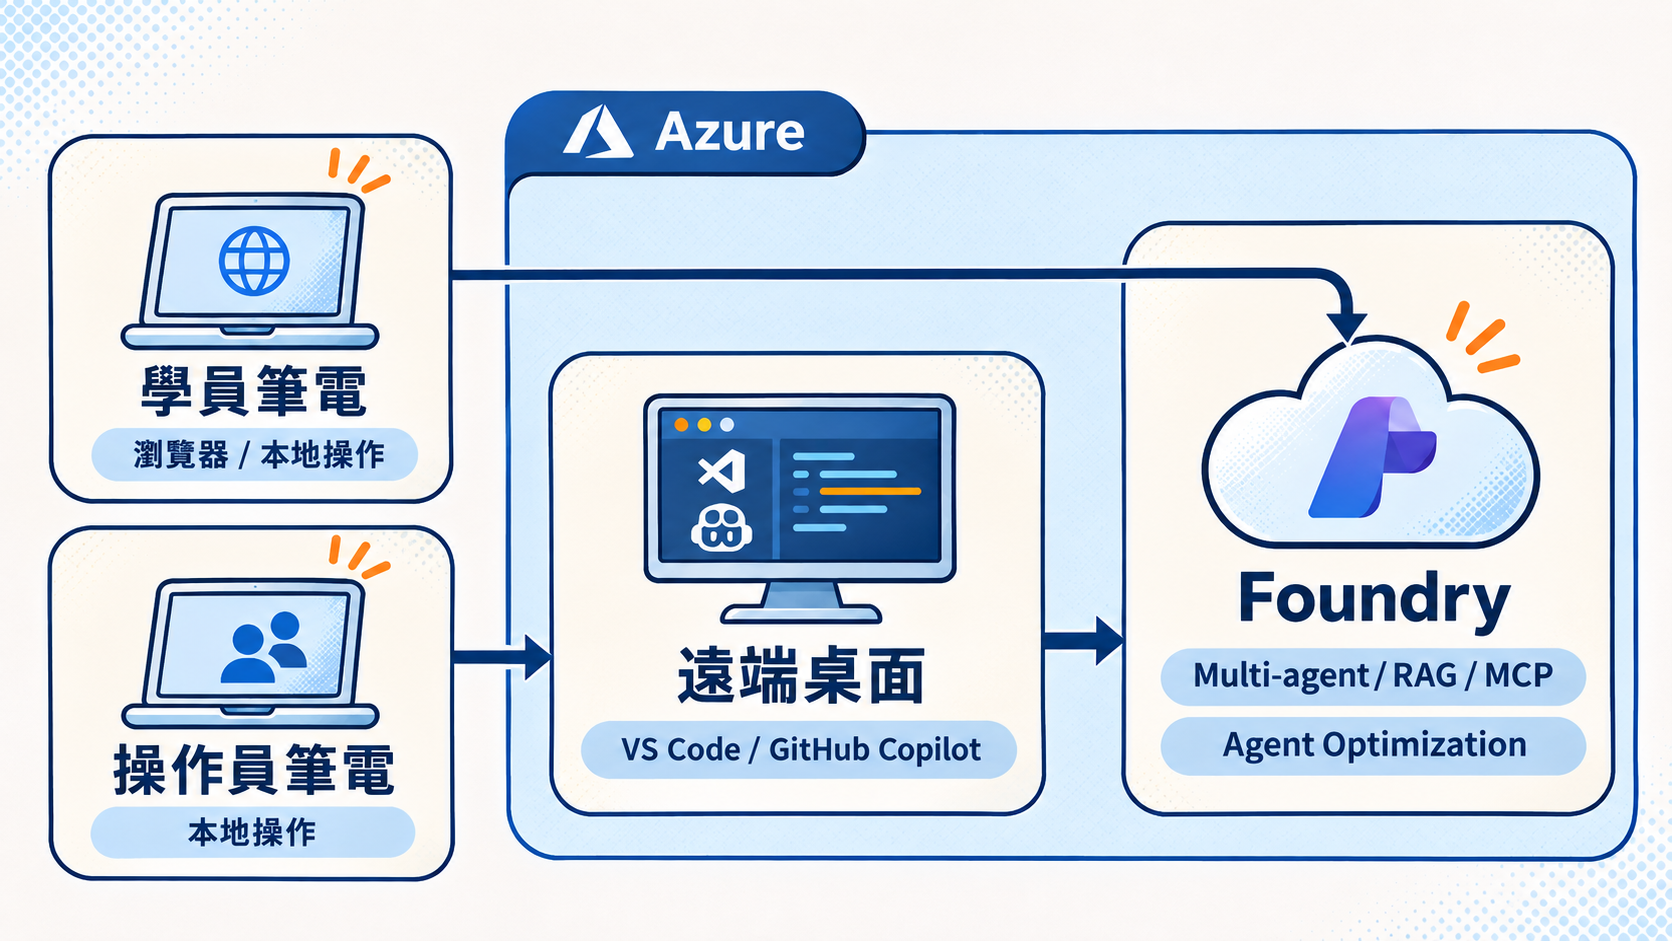
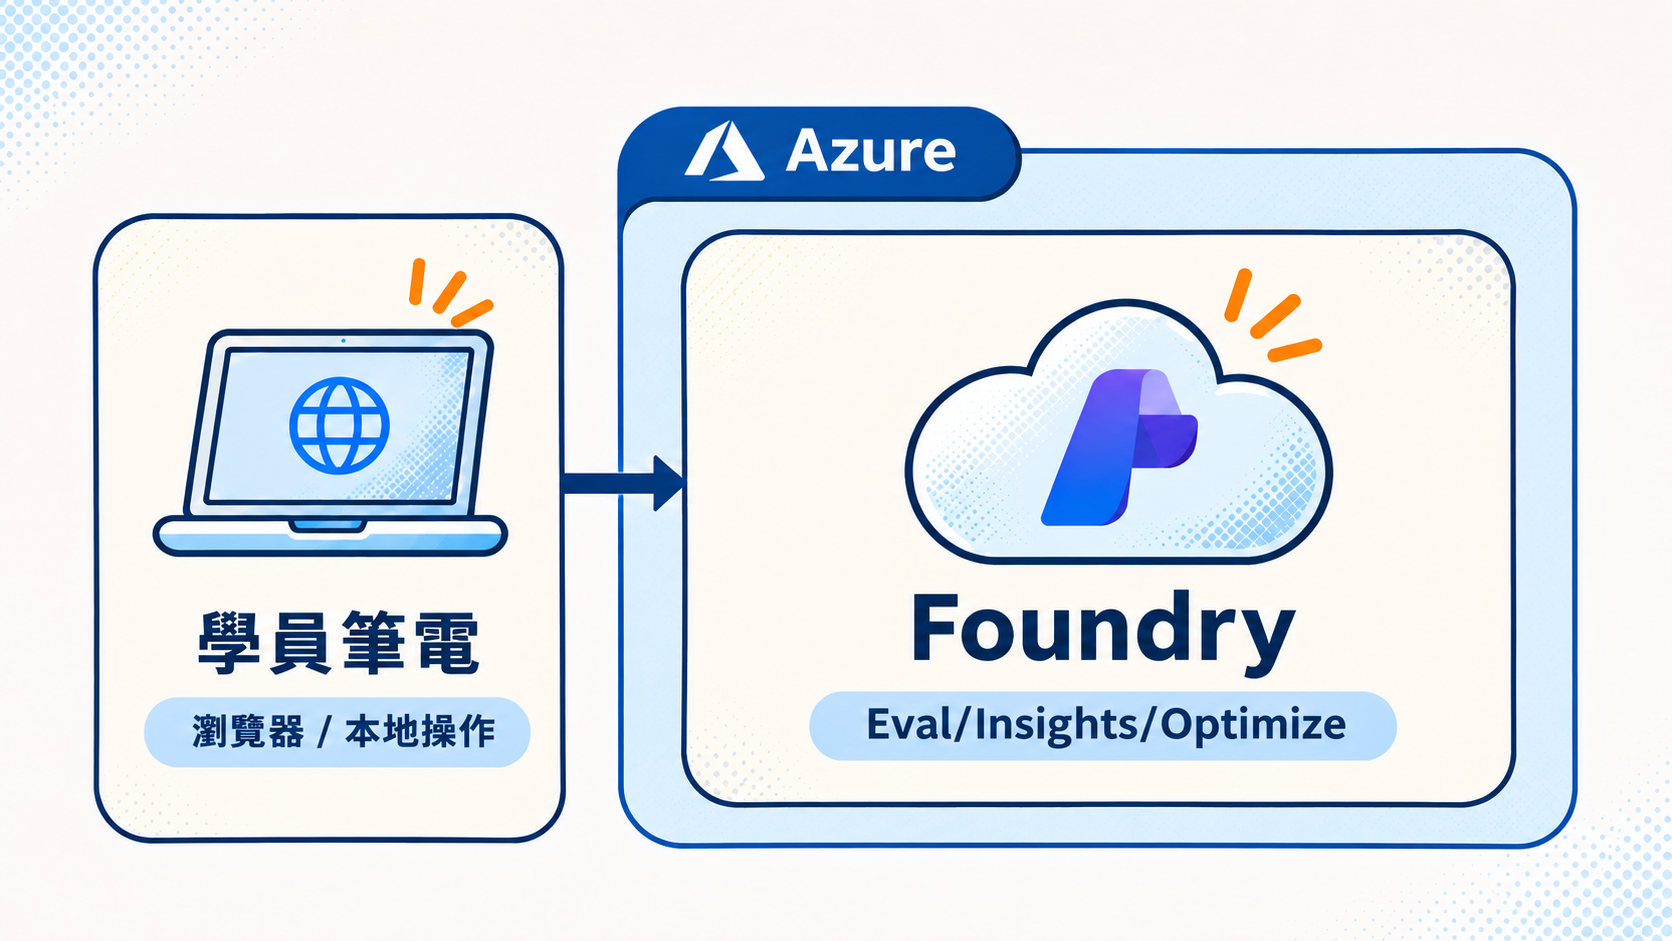
Publish latest preparation updates with MkDocs 1.6.1

diff --git a/getting-started/index.html b/getting-started/index.html
@@ -543,7 +543,7 @@
 <p><span id="readiness"></span></p>
 <h2 id="完成條件">完成條件<a class="headerlink" href="#完成條件" title="Permanent link">¶</a></h2>
 <ul class="task-list">
-<li class="task-list-item"><label class="task-list-control"><input type="checkbox" disabled=""><span class="task-list-indicator"></span></label> 進入指定的遠端桌面環境（透過 RDP），並開啟第二場專用的 Foundry project。</li>
+<li class="task-list-item"><label class="task-list-control"><input type="checkbox" disabled=""><span class="task-list-indicator"></span></label> 使用本機瀏覽器，開啟第二場專用的 Foundry project（<code>proj-opt-g0*</code>）。</li>
 </ul>
 <h2 id="步驟">步驟<a class="headerlink" href="#步驟" title="Permanent link">¶</a></h2>
 <p>確認本場環境後，後續將沿著各 Task 的步驟操作並理解其中的意涵。</p>
